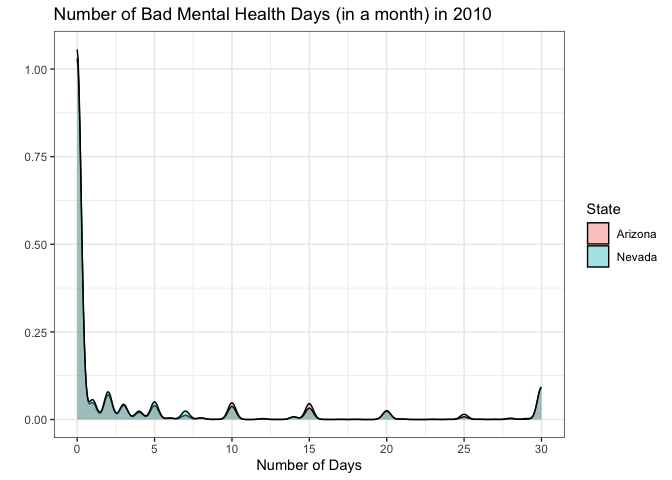
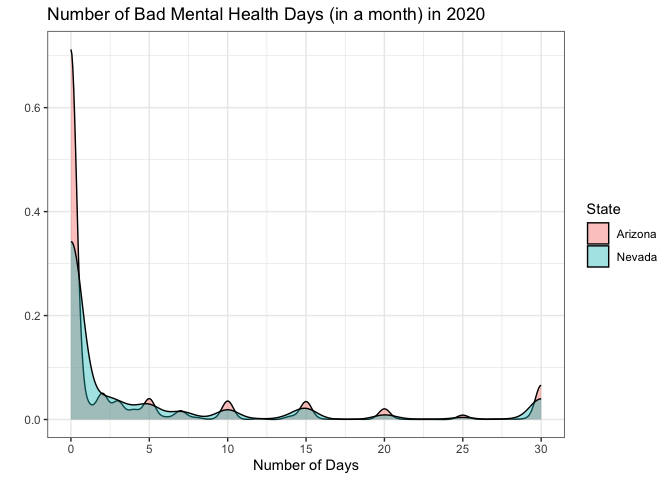
Push 4

diff --git a/BST260-Code-and-Plots.md b/BST260-Code-and-Plots.md
@@ -2,7 +2,7 @@ BST260 Code and Plots
 ================
 2022-12-15
 
-\##Introduction
+## Introduction
 
 The past several years have ushered in both excitement and dismay at the
 influx of both protective and anti-transgender policies at the state
@@ -53,7 +53,15 @@ two states, Arizona and Nevada were used from the BRFSS Surveys from
 2010 and 2020. These dates align with the state of LGBTQ policy as
 compiled by MAP.
 
-    The primary analysis was conducted with the full population of US adults. The analysis was focused on the full population of Arizona and Nevada respondents for the following reasons: 1) not all states collected information on gender identity and sexual orientation in 2010, this included Arizona and Nevada, 2) the full population may include individuals who are LGBTQ who may not have identified as such on the survey even if given the option. 3) the existence (or non-existence) of gender identity policies likely affect the number of individuals who self-identify as sexual or gender minorities. 
+The primary analysis was conducted with the full population of US
+adults. The analysis was focused on the full population of Arizona and
+Nevada respondents for the following reasons: 1) not all states
+collected information on gender identity and sexual orientation in 2010,
+this included Arizona and Nevada, 2) the full population may include
+individuals who are LGBTQ who may not have identified as such on the
+survey even if given the option. 3) the existence (or non-existence) of
+gender identity policies likely affect the number of individuals who
+self-identify as sexual or gender minorities.
 
 *Read in Behavioral Risk Factor Surveillance System data from 2010*
 
@@ -64,7 +72,7 @@ brfss10 <- read_xpt("/Users/kierantodd/Desktop/CDBRFS10.XPT",
   setnames(old = c("IYEAR","_STATE", "MENTHLTH"), new = c("YEAR","STATE", "MENTHLTH"))
 ```
 
-## Read in Behavioral Risk Factor Surveillance System data from 2020
+*Read in Behavioral Risk Factor Surveillance System data from 2020*
 
 ``` r
 brfss20 <- read_xpt("/Users/kierantodd/Desktop/LLCP2020.XPT",
@@ -73,15 +81,15 @@ brfss20 <- read_xpt("/Users/kierantodd/Desktop/LLCP2020.XPT",
   setnames(old = c("IYEAR","_STATE", "MENTHLTH"), new = c("YEAR","STATE", "MENTHLTH"))
 ```
 
-\##Combine BRFSS 2010 and BRFSS 2020 mental health data by State
+*Combine BRFSS 2010 and BRFSS 2020 mental health data by State*
 
 ``` r
 brfss_all <- rbindlist(list(brfss10, brfss20), use.names = T)
 brfss_all <- na.omit(brfss_all)
 ```
 
-\##Filter by Nevada and Arizona for the simple 2x2
-difference-in-differences model
+*Filter by Nevada and Arizona for the simple 2x2
+difference-in-differences model*
 
 ``` r
 brfss_all <- brfss_all |> 
@@ -109,22 +117,77 @@ na.omit(brfss_all)
     ## 15376:    32 2020       88       0
     ## 15377:    32 2020       88       0
 
-\##Rename States by their FIPS codes to the State Abbreviations
+*Rename States by their FIPS codes to the State Abbreviations*
 
 ``` r
 brfss_all$STATE = ifelse(brfss_all$"STATE" == 5,"Arizona","Nevada")
 ```
 
-\##Further clean data so that only 2010 and 2020 interview dates exist,
-also omit any rows that have no values
+*Further clean data so that only 2010 and 2020 interview dates exist,
+also omit any rows that have no values*
 
 ``` r
 brfss_analysis <- brfss_all %>% filter(YEAR %in% c(2010,2020))
 brfss_analysis <- na.omit(brfss_analysis)
 ```
 
-\##run a simple 2x2 difference in difference model using linear
-probablility model
+*Plotting a density plot of mental health bad days in the pre period*
+
+``` r
+ggplot(data=brfss_analysis[brfss_analysis$YEAR==2010], aes(x=outcome, group=as.factor(STATE)))+
+  scale_x_continuous(breaks = seq(from = 0, to = 30, by = 5)) +
+  geom_density( aes( fill=as.factor(STATE) ), alpha=0.4 ) +
+  theme_bw() + xlab("Number of Days") +
+  ylab("") + guides(fill=guide_legend(title="State")) +
+  ggtitle("Number of Bad Mental Health Days (in a month) in 2010")
+```
+
+![](BST260-Code-and-Plots_files/figure-gfm/unnamed-chunk-7-1.png)<!-- -->
+
+Figure 1 depicts a density plot of the number of bad mental health days
+in the pre-treatment period by whether or not a state eventually
+receives treatment (i.e., Arizona relative to Nevada). These overlaid
+density plots are relatively like each other in 2010.
+
+*Plotting a density plot of mental health bad days in the post period
+(2020)*
+
+``` r
+ggplot(data=brfss_analysis[brfss_analysis$YEAR==2020], aes(x=outcome, group=as.factor(STATE)))+
+  scale_x_continuous(breaks = seq(from = 0, to = 30, by = 5)) +
+  geom_density( aes( fill=as.factor(STATE) ), alpha=0.4 ) +
+  theme_bw() + xlab("Number of Days") +
+  ylab("") + guides(fill=guide_legend(title="State")) +
+  ggtitle("Number of Bad Mental Health Days (in a month) in 2020")
+```
+
+![](BST260-Code-and-Plots_files/figure-gfm/unnamed-chunk-8-1.png)<!-- -->
+
+Figure 2 depicts the density of the outcome in the post-treatment period
+again disaggregated by treatment status. The plots differ more from each
+other in 2020 than they did in 2010.
+
+*Creating a plot to average mental health outcome between 2010 and 2020*
+
+``` r
+agg <- ddply(brfss_analysis,.(YEAR, STATE),summarize, val = mean(outcome))
+
+ggplot( data=agg, aes(x=as.factor(YEAR), y=val, group=STATE,
+                      color=as.factor(STATE))) +
+  geom_line(lwd=1.5)+
+  theme_bw() + geom_point(size=4) +
+  ylab("Bad Mental Health Days") + xlab("Year") +
+  guides(color=guide_legend(title="States")) +
+  ggtitle("Mental Health Trajectories for Arizona v. Nevada")
+```
+
+    ## Warning: Using `size` aesthetic for lines was deprecated in ggplot2 3.4.0.
+    ## ℹ Please use `linewidth` instead.
+
+![](BST260-Code-and-Plots_files/figure-gfm/unnamed-chunk-9-1.png)<!-- -->
+
+*Run a simple 2x2 difference in difference model using a linear
+probability model*
 
 ``` r
 did_model1 <- lm(outcome ~ factor(STATE)*factor(YEAR), data=brfss_analysis)
@@ -152,47 +215,56 @@ summary(did_model1)
     ## Multiple R-squared:  0.001357,   Adjusted R-squared:  0.001158 
     ## F-statistic: 6.806 on 3 and 15022 DF,  p-value: 0.0001398
 
-# Plotting a density plot of mental health bad days in the pre period
+Data from 15304 adults who participated in the BRFSS in 2010 and 2020 –
+9167 adults from Arizona and 6137 adults from Nevada. In this simple 2x2
+difference-in-difference analysis, being in was associated with a
+statistically significant increase in the number of bad mental health
+days among those who live in Nevada.
 
-``` r
-ggplot(data=brfss_analysis[brfss_analysis$YEAR==2010], aes(x=outcome, group=as.factor(STATE)))+
-  scale_x_continuous(breaks = seq(from = 0, to = 30, by = 5)) +
-  geom_density( aes( fill=as.factor(STATE) ), alpha=0.4 ) +
-  theme_bw() + xlab("Number of Days") +
-  ylab("") + guides(fill=guide_legend(title="State")) +
-  ggtitle("Number of Bad Mental Health Days (in a month) in 2010")
-```
+In 2010, on average, the number of bad mental health days in Nevada was
+1.04 days lower than in Arizona.
 
-![](BST260-Code-and-Plots_files/figure-gfm/unnamed-chunk-8-1.png)<!-- -->
+In 2020, on average, the number of bad mental health days in Nevada was
+0.29 days less than the average number of bad mental health days in
+Nevada in 2010.
 
-# Plotting a density plot of mental health bad days in the post period (2020)
+The difference-in-difference estimate we can interpret as follows: in
+2020, the number of bad mental health days among those in Nevada was, on
+average, an additional 0.63 days more than Arizona in the same year. If
+the difference-in-difference identifying assumptions hold, then this
+represents the causal effect of an increase in LGBTQ policy tally in
+Nevada relative to Arizona that maintained a low LGBTQ policy tally
 
-``` r
-ggplot(data=brfss_analysis[brfss_analysis$YEAR==2020], aes(x=outcome, group=as.factor(STATE)))+
-  scale_x_continuous(breaks = seq(from = 0, to = 30, by = 5)) +
-  geom_density( aes( fill=as.factor(STATE) ), alpha=0.4 ) +
-  theme_bw() + xlab("Number of Days") +
-  ylab("") + guides(fill=guide_legend(title="State")) +
-  ggtitle("Number of Bad Mental Health Days (in a month) in 2020")
-```
+Conclusion
 
-![](BST260-Code-and-Plots_files/figure-gfm/unnamed-chunk-9-1.png)<!-- -->
+The data analysis suggests that Nevada, a state that Nevada may have had
+an uncommon shock that Arizona did not experience, does not allow us to
+distinguish the effect of treatment from the effect of the uncommon
+shock. Additionally, it is of note that the trajectory for both Arizona
+and Nevada shows that the number of bad mental health days was in the
+positive direction. This might require more theoretical investigation
+into what other events, political or not, that may be impacting overall
+mental health for residents in those states. Potential Violations of
+difference-in-difference identifying assumptions: parallel pre-trends
 
-# Creating a plot to test for parallel pre-trends
+In this analysis we assumed that the pre-trends were parallel among
+those who lived in Nevada and those who lived in Arizona. However, for
+several reasons, it could be possible that this is not true. Some
+economists argue that the parallel pre-trends assumption may be less
+valid over a longer period of time. Particularly if changes in the
+make-up of the populations of Arizona and Nevada, whereby the study
+period of ten years (2010 - 2020) may influence whether parallel
+pre-trends are a valid assumption to make.
 
-``` r
-agg <- ddply(brfss_analysis,.(YEAR, STATE),summarize, val = mean(outcome))
+*Future steps for future analyses*
 
-ggplot( data=agg, aes(x=as.factor(YEAR), y=val, group=STATE,
-                      color=as.factor(STATE))) +
-  geom_line(lwd=1.5)+
-  theme_bw() + geom_point(size=4) +
-  ylab("Bad Mental Health Days") + xlab("Year") +
-  guides(color=guide_legend(title="States")) +
-  ggtitle("Mental Health Trajectories for Arizona v. Nevada")
-```
-
-    ## Warning: Using `size` aesthetic for lines was deprecated in ggplot2 3.4.0.
-    ## ℹ Please use `linewidth` instead.
-
-![](BST260-Code-and-Plots_files/figure-gfm/unnamed-chunk-10-1.png)<!-- -->
+The purpose of this simple difference-in-difference analysis was to see
+if there were any significant differences in the change of the average
+number of bad mental health days between a state that had no change in
+policy tally for affirming gender identity, and a state that had a high
+level of change in policy tally for affirming gender identity, as
+defined by MAP. To account for time-invariant, state-specific factors
+would allow us to better account for differences in average bad mental
+health days across all states at baseline (2010) – using state fixed
+effects and including many more, if not all states, would yield a more
+robust and useful analysis in some ways.
